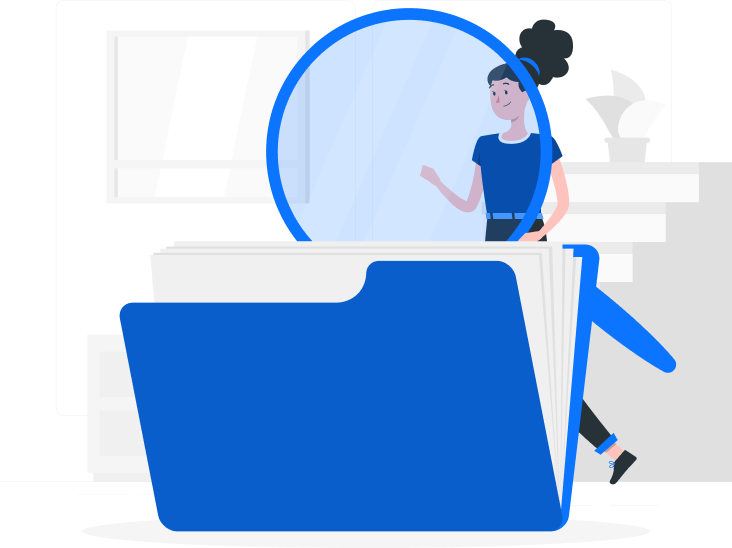
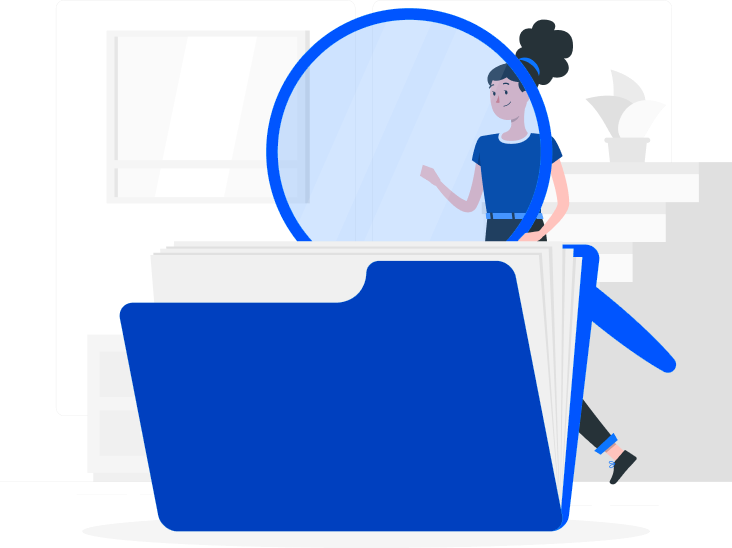
💄 ES-22767 (chore) Update colors and styles

Changed region(s): [[0.1503, 0.4343, 0.9317, 0.9927], [0.3607, 0.0, 0.7514, 0.4343], [0.6913, 0.4033, 0.7213, 0.4343]]

diff --git a/projects/components/theme/_variables.scss b/projects/components/theme/_variables.scss
@@ -63,8 +63,8 @@ $nav-tabs-border-width: 0 !default;
 $nav-tabs-border-radius: .3rem !default;
 $nav-tabs-padding: .2rem !default;
 
-$nav-tabs-link-active-color: var(--sq-text, #{$black}) !default;
-$nav-tabs-link-active-bg: var(--brand, #{$blue-focus}) !default;
+$nav-tabs-link-active-color: var(--sq-text, #{$white}) !default;
+$nav-tabs-link-active-bg: var(--brand, #{$secondary-500}) !default;
 $nav-tabs-link-active-box-shadow: 0 0 .4rem rgba(0, 0, 0, .1) !default;
 
 /** nav link **/
@@ -75,8 +75,8 @@ $nav-link-font-weight: 600 !default;
 $nav-link-color: rgb(0,0,0,0.55) !default;
 $nav-link-hover-color: rgb(0,0,0,0.7) !default;
 
-$nav-link-hover-bg: var(--brand-100, #{$blue-focus}) !default;
-$nav-link-active-hover-bg: var(--brand-200, #{$blue-focus}) !default;
+$nav-link-hover-bg: var(--brand-100, #{$secondary-500}) !default;
+$nav-link-active-hover-bg: var(--brand-200, #{$accent-500}) !default;
 
 /** form check input **/
 $form-check-input-checked-bg-color: $grey-500 !default;
@@ -99,10 +99,10 @@ $form-check-input-invalid-checked-bg: $error-1 !default;
 $form-check-input-invalid-checked-hover-bg: $darker-red !default;
 
 /** checkbox **/
-$form-check-input-checkbox-checked-bg: var(--primary, #{$blue-500}) !default;
-$form-check-input-checkbox-checked-border-color: var(--primary, #{$blue-500}) !default;
-$form-check-input-checkbox-checked-hover-bg: var(--primary-400, #{$darker-blue}) !default;
-$form-check-input-checkbox-checked-hover-border-color: var(--primary-400, #{$darker-blue}) !default;
+$form-check-input-checkbox-checked-bg: var(--primary, #{$accent-500}) !default;
+$form-check-input-checkbox-checked-border-color: var(--primary, #{$accent-500}) !default;
+$form-check-input-checkbox-checked-hover-bg: var(--primary-400, #{$accent-900}) !default;
+$form-check-input-checkbox-checked-hover-border-color: var(--primary-400, #{$accent-900}) !default;
 
 $form-check-input-checkbox-disabled-bg: $grey-300 !default;
 $form-check-input-checkbox-disabled-border-color: $grey-300 !default;
@@ -149,8 +149,8 @@ $facet-item-opener-hover-color: $body-text-grey-lighter !default;
 /** card **/
 $card-border-width: 0 !default;
 $card-box-shadow: $sq-box-shadow !default;
-$card-cap-bg: var(--brand-300, #{$blue-focus}) !default;
-$card-cap-color: var(--sq-text, #{$body-text-grey}) !default;
+$card-cap-bg: var(--brand-300, #{$secondary-500}) !default;
+$card-cap-color: var(--sq-text, #{$white}) !default;
 
 $card-cap-font-weight: 600 !default;
 $card-cap-primary-icon-color: var(--primary, $blue-100) !default;

diff --git a/projects/components/theme/components/_buttons.scss b/projects/components/theme/components/_buttons.scss
@@ -6,7 +6,7 @@ $theme-primary: (
   "hover-background": $blue-hover,
   "hover-border": transparent,
   "hover-color": $white,
-  "active-background": $darker-blue,
+  "active-background": $brand-300,
   "active-border": transparent,
   "active-color": $white,
   "disabled-background": $blue-focus,
@@ -14,17 +14,50 @@ $theme-primary: (
   "disabled-color": $white
   ) !default;
 
+$theme-accent: (
+  "background": $accent-500,
+  "border": transparent,
+  "color": $white,
+  "hover-background": $accent-300,
+  "hover-border": transparent,
+  "hover-color": $white,
+  "active-background": $accent-900,
+  "active-border": transparent,
+  "active-color": $white,
+  "disabled-background": $accent-100,
+  "disabled-border": none,
+  "disabled-color": $white
+  ) !default;
+
 $theme-outline: (
   "background": transparent,
-  "border": $blue-500,
-  "color": $blue-500,
+  "border": $brand-500,
+  "color": $brand-500,
+
+  "hover-background": $blue-hover,
+  "hover-border": $brand-500,
+  "hover-color": $white,
+
+  "active-background": $accent-500,
+  "active-border": $brand-500,
+  "active-color": $white,
+
+  "disabled-background": $blue-focus,
+  "disabled-border": $blue-focus,
+  "disabled-color": $white
+  ) !default;
+
+$theme-outline-accent: (
+  "background": transparent,
+  "border": $accent-500,
+  "color": $accent-500,
 
   "hover-background": $blue-hover,
   "hover-border": $blue-hover,
   "hover-color": $white,
 
-  "active-background": $darker-blue,
-  "active-border": $darker-blue,
+  "active-background": $accent-500,
+  "active-border": $accent-500,
   "active-color": $white,
 
   "disabled-background": $blue-focus,
@@ -34,15 +67,15 @@ $theme-outline: (
 
 $theme-outline-light: (
   "background": transparent,
-  "border": $grey-200,
-  "color": $grey-200,
+  "border": transparent,
+  "color": $black,
 
-  "hover-background": $grey-200,
-  "hover-border": $grey-200,
+  "hover-background": $accent-500,
+  "hover-border": transparent,
   "hover-color": $white,
 
-  "active-background": $grey-200,
-  "active-border": $grey-200,
+  "active-background": $accent-500,
+  "active-border": transparent,
   "active-color": $white,
 
   "disabled-background": transparent,
@@ -52,7 +85,10 @@ $theme-outline-light: (
 
 $theme: (
   "primary": $theme-primary,
+  "accent": $theme-accent,
+  "light": $theme-primary,
   "outline-primary": $theme-outline,
+  "outline-accent": $theme-outline-accent,
   "outline-light": $theme-outline-light
 );
 

diff --git a/projects/components/result/result-icon/icons.ts b/projects/components/result/result-icon/icons.ts
@@ -27,11 +27,11 @@ export const defaultFormatIcons: Record<string, IconFormat> = {
     "msgto": { icon: "fas fa-envelope-open-text" },
 
     "file": { icon: "far fa-file" },
-    "htm": { icon: "fas fa-globe-europe", color: '#4545bf' },
-    "html": { icon: "fas fa-globe-europe", color: '#4545bf' },
-    "xhtm": { icon: "fas fa-globe-europe", color: '#4545bf' },
-    "xhtml": { icon: "fas fa-globe-europe", color: '#4545bf' },
-    "mht": { icon: "fas fa-globe-europe", color: '#4545bf' },
+    "htm": { icon: "fas fa-globe-europe", color: '#ffffff' },
+    "html": { icon: "fas fa-globe-europe", color: '#ffffff' },
+    "xhtm": { icon: "fas fa-globe-europe", color: '#ffffff' },
+    "xhtml": { icon: "fas fa-globe-europe", color: '#ffffff' },
+    "mht": { icon: "fas fa-globe-europe", color: '#ffffff' },
     "doc": { icon: "far fa-file-word", color: '#3f3fca' },
     "docx": { icon: "far fa-file-word", color: '#3f3fca' },
     "docm": { icon: "far fa-file-word", color: '#3f3fca' },

diff --git a/projects/components/theme/_colors.scss b/projects/components/theme/_colors.scss
@@ -4,12 +4,27 @@
 // tint-color() and shade-color() needs this import
 @import "bootstrap/scss/functions";
 
+$accent-100: #ffe2d4 !default;
+$accent-300: #ffa273 !default;
+$accent-500: #ff854a !default;
+$accent-700: #f2580c !default;
+$accent-900: #e6540b !default;
+
+$brand-rgb: 0,64,191;
+$brand-100: #c7daff;
+$brand-300: #0055ff;
+$brand-500: #0040bf; /* brand rgb */
+
+$secondary-100: #e8edff;
+$secondary-300: #cfdaff;
+$secondary-500: #87a3ff;
+
 $bg-color: #E5E5E5;
-$blue-rgb: 12, 117, 255;
-$blue: rgb(12, 117, 255);
-$blue-hover: #0f65d7;
-$blue-selection: #eef7ff;
-$blue-focus: #ddecff;
+$blue-hover: $accent-500;
+$blue-rgb: $brand-rgb;
+$blue: $brand-500;
+$blue-selection: $secondary-100;
+$blue-focus: $secondary-500;
 
 $white: #fff;
 $white-2: #F1F1F1;

diff --git a/projects/vanilla-search/src/app/search/search.component.html b/projects/vanilla-search/src/app/search/search.component.html
@@ -188,7 +188,10 @@
             <sq-facet-card *ngIf="openedDoc" [collapsible]="false" [facetActionsAreSecondary]="true"
                 [viewActionsAreSecondary]="true"
                 secondaryActionsClass="position-absolute end-0 btn-group-vertical mt-4 me-3 bg-light rounded shadow on-hover"
-                viewActionsClass="d-block btn-group mt-2" viewButtonsStyle="outline-primary" [actions]="previewCustomActions"
+                secondaryButtonsStyle="outline-light"
+                viewActionsClass="d-block btn-group mt-2"
+                viewButtonsStyle="outline-primary"
+                [actions]="previewCustomActions"
                 actionsSize="" class="mb-3 facet-preview">
 
                 <ng-template #headerTpl>

diff --git a/projects/components/theme/sba/_facets.scss b/projects/components/theme/sba/_facets.scss
@@ -28,7 +28,10 @@ sq-facet-card {
       background-color: $facet-btn-light-bg;
       border-color: $facet-btn-light-border-color;
 
-      &:hover,
+      &:hover {
+        color: $white;
+        background-color: $accent-500;
+      }
       &.active,
       &[aria-expanded="true"] {
         color: $facet-btn-light-active-color;

diff --git a/projects/components/theme/sba/_results.scss b/projects/components/theme/sba/_results.scss
@@ -3,11 +3,17 @@ span.matchlocations {
 }
 
 .sq-result-title {
-    color: $blue;
+    color: $brand-500;
     font-weight: 600;
+}
+
+.card-header {
+    .sq-result-title {
+        color: $white;
+    }
 }
 
 sq-result-source :where(a, span) {
     font-size: .875rem;
-    color: $blue;
+    color: $brand-500;
 }

diff --git a/projects/components/theme/components/_tabs.scss b/projects/components/theme/components/_tabs.scss
@@ -28,6 +28,7 @@
 
     &:hover {
       background-color: $nav-link-hover-bg;
+      color: white;
     }
   }
 }

diff --git a/projects/vanilla-search/src/styles/vanilla.scss b/projects/vanilla-search/src/styles/vanilla.scss
@@ -91,7 +91,6 @@ sq-tabs {
   }
   .nav-item .count {
     font-size: 0.875em;
-    color: $secondary;
   }
 }
 

diff --git a/projects/components/search-form/search-form.component.scss b/projects/components/search-form/search-form.component.scss
@@ -33,6 +33,6 @@
   }
 
   .light-green {
-    color: #b1dfbb !important
+    color: #87a3ff !important
   }
 }
